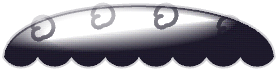
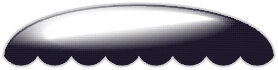
앱 꾸미기: 모자를 써도 헤어 그대로 · 뽀글 펌 무늬 빼기
- 머리를 덮는 모자를 써도 뒷머리를 자르지 않고 그 위에 모자를 얹어요 (머리 사이로 배경이 보이던 것 고침)
- 앞머리는 모자 아랫선 아래만 보이고, 가는 띠만 남으면 숨겨요 (눈 위에 걸치던 띠 고침)
- 왕관도 앞머리가 띠 아래만 보이게 (앞머리가 왕관을 덮던 것 고침)
- 모자용 뒷머리(cap) · 옆머리(side) 그림을 빼고 뽀글 펌의 곱슬 무늬를 지움

Changed region(s): [[0.0576, 0.0286, 0.9496, 0.6], [0.9496, 0.5143, 0.9784, 0.6571], [0.0288, 0.4857, 0.0576, 0.6286]]

diff --git a/mobile/src/components/character/av-assets.ts b/mobile/src/components/character/av-assets.ts
@@ -3,11 +3,11 @@
  * 원본은 scripts/av-art/art.js (캐릭터 원본 좌표 520 × 332 위에 그린 SVG) → export.html 로 뜬 PNG 예요.
  * 자리 r = [x, y, 폭, 높이]: box = 캐릭터 상자 비율 · stage = 무대(300 × 220) 비율.
  * 헤어는 머리 색을 바꾸도록 두 장: 바탕(빛 · 그림자 · 선) 위에 색칠 자리(tintColor 로 머리 색). front = 눈 위 앞머리.
- * 머리를 덮는 모자(cover)를 같이 쓰면 back · front 대신 cap(모자 속을 뺀 뒷머리) · side(모자 아랫선 아래로 내려오는 옆머리).
+ * 머리를 덮는 모자(cover)를 같이 써도 헤어는 그대로예요: 뒷머리 위에 모자가 얹히고, 앞머리는 모자 아랫선(clipY) 아래만 보여요.
  */
 
 export type AvRect = readonly [number, number, number, number];
-export type AvGeo = { k: 'box' | 'stage'; r: AvRect } | { k: 'hair'; back: AvRect; front?: AvRect; cap?: AvRect; side: AvRect } | { k: 'none' };
+export type AvGeo = { k: 'box' | 'stage'; r: AvRect } | { k: 'hair'; back: AvRect; front?: AvRect } | { k: 'none' };
 
 export const AV_ART: Record<string, number> = {
   'hr-sprout': require('@/assets/characters/av/hr-sprout.png'),
@@ -115,32 +115,28 @@ export const AV_HAIR_FILL: Record<string, number> = {
   'hr-long': require('@/assets/characters/av/hr-long-fill.png'),
 };
 
-/** 헤어 부분 그림: front 앞머리 · cap 모자 속을 뺀 뒷머리 · side 모자 아래 옆머리 (각각 바탕 + 색칠 자리) */
-type Two = { base: number; fill: number };
-export const AV_HAIR_PART: Record<string, { front?: Two; cap?: Two; side: Two }> = {
-  'hr-sprout': { side: { base: require('@/assets/characters/av/hr-sprout-side.png'), fill: require('@/assets/characters/av/hr-sprout-side-fill.png') } },
-  'hr-spiky': { cap: { base: require('@/assets/characters/av/hr-spiky-cap.png'), fill: require('@/assets/characters/av/hr-spiky-cap-fill.png') }, side: { base: require('@/assets/characters/av/hr-spiky-side.png'), fill: require('@/assets/characters/av/hr-spiky-side-fill.png') } },
-  'hr-bowl': { front: { base: require('@/assets/characters/av/hr-bowl-front.png'), fill: require('@/assets/characters/av/hr-bowl-front-fill.png') }, cap: { base: require('@/assets/characters/av/hr-bowl-cap.png'), fill: require('@/assets/characters/av/hr-bowl-cap-fill.png') }, side: { base: require('@/assets/characters/av/hr-bowl-side.png'), fill: require('@/assets/characters/av/hr-bowl-side-fill.png') } },
-  'hr-bun': { front: { base: require('@/assets/characters/av/hr-bun-front.png'), fill: require('@/assets/characters/av/hr-bun-front-fill.png') }, cap: { base: require('@/assets/characters/av/hr-bun-cap.png'), fill: require('@/assets/characters/av/hr-bun-cap-fill.png') }, side: { base: require('@/assets/characters/av/hr-bun-side.png'), fill: require('@/assets/characters/av/hr-bun-side-fill.png') } },
-  'hr-quiff': { cap: { base: require('@/assets/characters/av/hr-quiff-cap.png'), fill: require('@/assets/characters/av/hr-quiff-cap-fill.png') }, side: { base: require('@/assets/characters/av/hr-quiff-side.png'), fill: require('@/assets/characters/av/hr-quiff-side-fill.png') } },
-  'hr-bob': { front: { base: require('@/assets/characters/av/hr-bob-front.png'), fill: require('@/assets/characters/av/hr-bob-front-fill.png') }, cap: { base: require('@/assets/characters/av/hr-bob-cap.png'), fill: require('@/assets/characters/av/hr-bob-cap-fill.png') }, side: { base: require('@/assets/characters/av/hr-bob-side.png'), fill: require('@/assets/characters/av/hr-bob-side-fill.png') } },
-  'hr-pig': { front: { base: require('@/assets/characters/av/hr-pig-front.png'), fill: require('@/assets/characters/av/hr-pig-front-fill.png') }, cap: { base: require('@/assets/characters/av/hr-pig-cap.png'), fill: require('@/assets/characters/av/hr-pig-cap-fill.png') }, side: { base: require('@/assets/characters/av/hr-pig-side.png'), fill: require('@/assets/characters/av/hr-pig-side-fill.png') } },
-  'hr-pony': { front: { base: require('@/assets/characters/av/hr-pony-front.png'), fill: require('@/assets/characters/av/hr-pony-front-fill.png') }, cap: { base: require('@/assets/characters/av/hr-pony-cap.png'), fill: require('@/assets/characters/av/hr-pony-cap-fill.png') }, side: { base: require('@/assets/characters/av/hr-pony-side.png'), fill: require('@/assets/characters/av/hr-pony-side-fill.png') } },
-  'hr-curly': { front: { base: require('@/assets/characters/av/hr-curly-front.png'), fill: require('@/assets/characters/av/hr-curly-front-fill.png') }, cap: { base: require('@/assets/characters/av/hr-curly-cap.png'), fill: require('@/assets/characters/av/hr-curly-cap-fill.png') }, side: { base: require('@/assets/characters/av/hr-curly-side.png'), fill: require('@/assets/characters/av/hr-curly-side-fill.png') } },
-  'hr-long': { front: { base: require('@/assets/characters/av/hr-long-front.png'), fill: require('@/assets/characters/av/hr-long-front-fill.png') }, cap: { base: require('@/assets/characters/av/hr-long-cap.png'), fill: require('@/assets/characters/av/hr-long-cap-fill.png') }, side: { base: require('@/assets/characters/av/hr-long-side.png'), fill: require('@/assets/characters/av/hr-long-side-fill.png') } },
+/** 앞머리 그림 (바탕 + 색칠 자리) */
+export const AV_HAIR_FRONT: Record<string, { base: number; fill: number }> = {
+  'hr-bowl': { base: require('@/assets/characters/av/hr-bowl-front.png'), fill: require('@/assets/characters/av/hr-bowl-front-fill.png') },
+  'hr-bun': { base: require('@/assets/characters/av/hr-bun-front.png'), fill: require('@/assets/characters/av/hr-bun-front-fill.png') },
+  'hr-bob': { base: require('@/assets/characters/av/hr-bob-front.png'), fill: require('@/assets/characters/av/hr-bob-front-fill.png') },
+  'hr-pig': { base: require('@/assets/characters/av/hr-pig-front.png'), fill: require('@/assets/characters/av/hr-pig-front-fill.png') },
+  'hr-pony': { base: require('@/assets/characters/av/hr-pony-front.png'), fill: require('@/assets/characters/av/hr-pony-front-fill.png') },
+  'hr-curly': { base: require('@/assets/characters/av/hr-curly-front.png'), fill: require('@/assets/characters/av/hr-curly-front-fill.png') },
+  'hr-long': { base: require('@/assets/characters/av/hr-long-front.png'), fill: require('@/assets/characters/av/hr-long-front-fill.png') },
 };
 
 export const AV_GEO: Record<string, AvGeo> = {
-  'hr-sprout': { k: 'hair', back: [0.541, -0.2229, 0.1346, 0.3273], side: [0.3705, 0.0321, 0.4128, 0.1928] },
-  'hr-spiky': { k: 'hair', back: [0.3833, -0.2068, 0.3872, 0.3474], cap: [0.3885, 0.1285, 0.3769, 0.012], side: [0.3679, 0.0321, 0.4179, 0.2169] },
-  'hr-bowl': { k: 'hair', back: [0.3795, -0.0884, 0.3949, 0.2651], front: [0.391, -0.0542, 0.3718, 0.1747], cap: [0.3795, 0.1285, 0.3949, 0.0482], side: [0.3705, 0.0321, 0.4128, 0.1928] },
-  'hr-bun': { k: 'hair', back: [0.3872, -0.2851, 0.3795, 0.4438], front: [0.3949, -0.0341, 0.3641, 0.1446], cap: [0.3872, 0.1285, 0.3795, 0.0301], side: [0.3705, 0.0321, 0.4128, 0.1928] },
-  'hr-quiff': { k: 'hair', back: [0.3808, -0.2129, 0.4205, 0.3775], cap: [0.3821, -0.1566, 0.4192, 0.3213], side: [0.3705, 0.0321, 0.4128, 0.1928] },
-  'hr-bob': { k: 'hair', back: [0.3564, -0.1707, 0.441, 0.3956], front: [0.3846, -0.0683, 0.3846, 0.2711], cap: [0.3564, -0.004, 0.441, 0.2289], side: [0.3564, 0.0201, 0.441, 0.3012] },
-  'hr-pig': { k: 'hair', back: [0.2013, -0.0683, 0.7513, 0.3112], front: [0.3987, -0.0763, 0.3564, 0.1747], cap: [0.2013, -0.0683, 0.7513, 0.3112], side: [0.3705, 0.0321, 0.4128, 0.1928] },
-  'hr-pony': { k: 'hair', back: [0.1756, -0.1084, 0.5949, 0.3454], front: [0.3949, -0.0341, 0.3641, 0.1446], cap: [0.1756, -0.1084, 0.5949, 0.3454], side: [0.3705, 0.0321, 0.4128, 0.1928] },
-  'hr-curly': { k: 'hair', back: [0.3269, -0.3815, 0.5, 0.6426], front: [0.3987, -0.0241, 0.3564, 0.1426], cap: [0.3269, -0.3815, 0.5, 0.6426], side: [0.3564, 0.0482, 0.441, 0.2369] },
-  'hr-long': { k: 'hair', back: [0.3, -0.0723, 0.5538, 0.8614], front: [0.3718, -0.0964, 0.4103, 0.3213], cap: [0.3, 0.1285, 0.5538, 0.6606], side: [0.3526, 0.0201, 0.4487, 0.4398] },
+  'hr-sprout': { k: 'hair', back: [0.541, -0.2229, 0.1346, 0.3273] },
+  'hr-spiky': { k: 'hair', back: [0.3833, -0.2068, 0.3872, 0.3474] },
+  'hr-bowl': { k: 'hair', back: [0.3795, -0.0884, 0.3949, 0.2651], front: [0.391, -0.0542, 0.3718, 0.1747] },
+  'hr-bun': { k: 'hair', back: [0.3872, -0.2851, 0.3795, 0.4438], front: [0.3949, -0.0341, 0.3641, 0.1446] },
+  'hr-quiff': { k: 'hair', back: [0.3808, -0.2129, 0.4205, 0.3775] },
+  'hr-bob': { k: 'hair', back: [0.3564, -0.1707, 0.441, 0.3956], front: [0.3846, -0.0683, 0.3846, 0.2711] },
+  'hr-pig': { k: 'hair', back: [0.2013, -0.0683, 0.7513, 0.3112], front: [0.3987, -0.0763, 0.3564, 0.1747] },
+  'hr-pony': { k: 'hair', back: [0.1756, -0.1084, 0.5949, 0.3454], front: [0.3949, -0.0341, 0.3641, 0.1446] },
+  'hr-curly': { k: 'hair', back: [0.3269, -0.3815, 0.5, 0.6426], front: [0.3987, -0.0221, 0.3564, 0.1406] },
+  'hr-long': { k: 'hair', back: [0.3, -0.0723, 0.5538, 0.8614], front: [0.3718, -0.0964, 0.4103, 0.3213] },
   'e-sparkle': { k: 'box', r: [0.4744, 0.0783, 0.2282, 0.1847] },
   'e-lash': { k: 'box', r: [0.3897, -0.0462, 0.3705, 0.1867] },
   'e-liner': { k: 'box', r: [0.3577, 0.0361, 0.4346, 0.1325] },

diff --git a/mobile/scripts/av-art/art.js b/mobile/scripts/av-art/art.js
@@ -45,7 +45,6 @@
   /** 뭉게뭉게 테두리 (타원 둘레에 작은 원호 n 개 · 뽀글 머리 · 구름) */
   const scallop = (cx, cy, rx, ry, n, b) => { const p = (i) => { const a = (i / n) * Math.PI * 2; return `${r1(cx + Math.cos(a) * rx)} ${r1(cy + Math.sin(a) * ry)}`; }; return `M${p(0)}` + [...Array(n)].map((_, i) => `A${b} ${b} 0 0 1 ${p(i + 1)}`).join('') + 'Z'; };
   /** 작은 소용돌이 컬 */
-  const curl = (x, y, r) => `M${x - r} ${y}a${r} ${r} 0 1 1 ${r} ${r}a${r * 0.55} ${r * 0.55} 0 1 1 ${-r * 0.4} ${-r * 0.9}`;
   const rng = (n, f) => [...Array(n)].map((_, i) => f(i)).join('');
 
   // ---------------------------------------------------------------- 팔 · 다리 띠 (옷 · 장갑 · 신발 자리)
@@ -129,7 +128,7 @@
       P(ell(442, 28, 24, 24), '#FFFFFF') +
       P(rr(198, -2, 204, 44, 22), '#FFFFFF') + rng(10, (i) => `<circle cx="${212 + i * 20}" cy="${i % 2 ? 8 : 30}" r="5" fill="${INK}" opacity=".06"/>`) +
       gl(264, -52, 20, 8, -40, 0.45) },
-    { id: 'h-crown', name: '황금 왕관', price: 0, rare: '시즌', lock: '주간 랭킹 TOP 3 보상', art: () =>
+    { id: 'h-crown', cover: true, clipY: 32, name: '황금 왕관', price: 0, rare: '시즌', lock: '주간 랭킹 TOP 3 보상', art: () =>
       P('M222 30 L212 -44 L254 -10 L276 -66 L300 -22 L324 -66 L346 -10 L388 -44 L378 30 Z', 'url(#avGold)', { rim: 0.3 }) +
       P(rr(218, 6, 164, 26, 9), 'url(#avGold)', { rim: 0.3 }) +
       [[212, -48], [276, -70], [324, -70], [388, -48]].map(([x, y]) => P(ell(x, y, 8, 8), 'url(#avGold)', { rim: 0.3 })).join('') +
@@ -168,32 +167,12 @@
       Hp('M202 50 C196 -40 404 -40 398 50 Z', H) + P(ell(228, 4, 14, 18), '#FFE200', { t: 'rotate(-20 228 4)' }) + st('M116 -2 Q140 -26 178 -24', 0.4, 5),
       front: (H) => Hp('M208 34 C206 -8 300 -28 392 18 C356 6 318 10 292 28 C272 14 238 18 208 34 Z', H, { hi: 0.7 }) },
     { id: 'hr-curly', name: '뽀글 펌', price: 200, rare: '레어', back: (H) =>
-      Hp(scallop(300, -20, 124, 92, 18, 24), H) +
-      [[240, -60], [290, -82], [344, -70], [384, -30], [214, -10], [262, -24], [318, -40], [366, 6], [228, 30], [392, 34]].map(([x, y], i) => ln(curl(x, y, 8 + (i % 3) * 2), INK, 3, { op: 0.18 }) + ln(`M${x - 6} ${y - 6} q5 -5 11 -3`, '#fff', 3.5, { op: 0.45 })).join(''),
-      front: (H) => Hp('M210 30 C212 -16 388 -16 390 30' + [...Array(8)].map((_, i) => `A13 13 0 0 1 ${390 - (i + 1) * 22.5} 30`).join('') + 'Z', H, { hi: 0.7 }) + [[236, 10], [276, 2], [318, 2], [360, 10]].map(([x, y]) => ln(curl(x, y, 7), INK, 2.6, { op: 0.16 })).join('') },
+      Hp(scallop(300, -20, 124, 92, 18, 24), H),
+      front: (H) => Hp('M210 30 C212 -16 388 -16 390 30' + [...Array(8)].map((_, i) => `A13 13 0 0 1 ${390 - (i + 1) * 22.5} 30`).join('') + 'Z', H, { hi: 0.7 }) },
     { id: 'hr-long', name: '긴 생머리', price: 250, rare: '레어', back: (H) =>
       Hp('M194 60 C176 -48 424 -48 406 60 C424 122 446 186 440 250 C420 264 394 262 378 246 L300 110 L222 246 C206 262 180 264 160 250 C154 186 176 122 194 60 Z', H) + st('M424 150 Q436 200 430 238', 0.35, 5) + st('M176 150 Q166 200 170 238', 0.35, 5),
       front: (H) => Hp('M300 -24 C262 -24 222 -6 212 38 C210 52 208 62 202 72 C190 40 194 0 228 -20 C250 -30 280 -32 300 -24 Z', H, { hi: 0.6 }) + Hp('M300 -24 C338 -24 378 -6 388 38 C390 52 392 62 398 72 C410 40 406 0 372 -20 C350 -30 320 -32 300 -24 Z', H, { hi: 0.6 }) },
   ];
-
-  // 모자(머리를 덮는 것)를 같이 쓰면: 뒷머리에서 모자 속 부분을 잘라 내고(cap), 모자 아래로 옆머리를 내려요(side · 모자 아랫선 아래만 보여요)
-  const DOME = 'M-200 -400 H800 V600 H-200 Z M192 44 C184 -150 416 -150 408 44 Z';
-  const LOCK = {
-    short: 'M206 14 C196 30 192 52 198 72 C208 66 216 50 220 16 Z',
-    spiky: 'M206 14 L194 60 L208 50 L202 80 L220 40 L222 14 Z',
-    bob: 'M204 10 C186 40 184 84 196 104 C212 102 224 72 224 14 Z',
-    long: 'M204 10 C184 56 182 112 192 150 C208 138 222 92 224 14 Z',
-    curly: '',
-  };
-  const SIDE = { 'hr-sprout': 'short', 'hr-spiky': 'spiky', 'hr-bowl': 'short', 'hr-bun': 'short', 'hr-quiff': 'short', 'hr-bob': 'bob', 'hr-pig': 'short', 'hr-pony': 'short', 'hr-curly': 'curly', 'hr-long': 'long' };
-  HAIRS.forEach((h) => {
-    h.cap = (H) => `<clipPath id="dc${h.id}"><path d="${DOME}" clip-rule="evenodd"/></clipPath><g clip-path="url(#dc${h.id})">${h.back(H)}</g>`;
-    const k = SIDE[h.id];
-    h.side = (H) => {
-      const one = k === 'curly' ? [[208, 34, 15], [202, 58, 14], [206, 80, 12]].map(([x, y, r]) => Hp(ell(x, y, r, r), H, { rim: 0.16 })).join('') : Hp(LOCK[k], H, { hi: 0.7 }) + st(LOCK[k].split(' ').slice(0, 2).join(' ').replace('M', 'M') + ' l-4 30', 0.3, 4);
-      return one + mir(one);
-    };
-  });
 
   // ---------------------------------------------------------------- 눈 (원본 눈 위에 덧그려요 · lid = 몸 색 눈꺼풀: t 위에서, b 아래에서, only 한쪽 눈)
   const EY = [[258.5, 64, 273, 68, -1], [339.5, 65.5, 354, 69, 1]];

diff --git a/mobile/src/components/character/avatar.tsx b/mobile/src/components/character/avatar.tsx
@@ -11,7 +11,7 @@ import { AV_BG, AV_COLOR_HEX, AV_ITEM, memberAvatar, type Avatar, type AvItem } 
 import { getMe } from '@/state/me';
 import { useMyAvatar } from '@/state/avatar';
 
-import { AV_ART, AV_BG_ART, AV_BODY, AV_GEO, AV_HAIR_FILL, AV_HAIR_PART, AV_TINT, type AvRect } from './av-assets';
+import { AV_ART, AV_BG_ART, AV_BODY, AV_GEO, AV_HAIR_FILL, AV_HAIR_FRONT, AV_TINT, type AvRect } from './av-assets';
 
 /*
  * 꾸민 캐릭터 그리기 (프로토타입 avCharHTML · avStage · lgFace).
@@ -142,31 +142,32 @@ function Tinted({ base, fill, r, hc, w, h }: { base: number; fill: number; r: Av
   );
 }
 
-/** 아이템 한 개 (캐릭터 상자 w × h 기준 자리) — 헤어는 뒷머리 (모자를 덮어쓰면 모자 속을 뺀 뒷머리) */
-function Sticker({ it, hc, w, h, capped = false }: { it: AvItem; hc: string; w: number; h: number; capped?: boolean }) {
+/** 아이템 한 개 (캐릭터 상자 w × h 기준 자리) — 헤어는 뒷머리 (모자를 써도 그대로, 모자가 위에 얹혀요) */
+function Sticker({ it, hc, w, h }: { it: AvItem; hc: string; w: number; h: number }) {
   const g = AV_GEO[it.id];
   if (!g) return null;
-  if (g.k === 'hair') {
-    const p = AV_HAIR_PART[it.id];
-    if (capped) return p?.cap && g.cap ? <Tinted base={p.cap.base} fill={p.cap.fill} r={g.cap} hc={hc} w={w} h={h} /> : null;
-    return <Tinted base={AV_ART[it.id]} fill={AV_HAIR_FILL[it.id]} r={g.back} hc={hc} w={w} h={h} />;
-  }
+  if (g.k === 'hair') return <Tinted base={AV_ART[it.id]} fill={AV_HAIR_FILL[it.id]} r={g.back} hc={hc} w={w} h={h} />;
   if (g.k !== 'box') return null;
   return <Image source={AV_ART[it.id]} style={rectStyle(g.r, w, h)} contentFit="fill" />;
 }
 
-/** 눈 위 헤어: 모자가 없으면 앞머리 · 머리를 덮는 모자를 쓰면 모자 아랫선(clipY) 아래로 옆머리 */
+/** 모자 아랫선 아래로 앞머리가 이만큼(원본 좌표)도 안 남으면 앞머리를 숨겨요 — 눈 위에 가는 띠로 걸쳐 보여서 */
+const MIN_BANGS_BELOW_HAT = 12;
+
+/** 눈 위 앞머리: 머리를 덮는 모자를 쓰면 모자 아랫선(clipY) 아래로 보이는 부분만 (단발 · 긴 머리처럼 길게 내려오는 앞머리만 남아요) */
 function HairFront({ it, cover, hc, w, h }: { it: AvItem; cover?: AvItem; hc: string; w: number; h: number }) {
   const g = AV_GEO[it.id];
-  const p = AV_HAIR_PART[it.id];
-  if (!g || g.k !== 'hair' || !p) return null;
-  if (!cover) return p.front && g.front ? <Tinted base={p.front.base} fill={p.front.fill} r={g.front} hc={hc} w={w} h={h} /> : null;
-  const top = ((cover.clipY ?? 40) / 332) * h;
+  const p = AV_HAIR_FRONT[it.id];
+  if (!g || g.k !== 'hair' || !p || !g.front) return null;
+  const bangs = <Tinted base={p.base} fill={p.fill} r={g.front} hc={hc} w={w} h={h} />;
+  if (!cover) return bangs;
+  const clipY = cover.clipY ?? 40;
+  const bangsBottom = (g.front[1] + g.front[3]) * 332;
+  if (bangsBottom - clipY < MIN_BANGS_BELOW_HAT) return null;
+  const top = (clipY / 332) * h;
   return (
     <View pointerEvents="none" style={{ position: 'absolute', left: -w, top, width: w * 3, height: h * 2, overflow: 'hidden' }}>
-      <View style={{ position: 'absolute', left: w, top: -top, width: w, height: h }}>
-        <Tinted base={p.side.base} fill={p.side.fill} r={g.side} hc={hc} w={w} h={h} />
-      </View>
+      <View style={{ position: 'absolute', left: w, top: -top, width: w, height: h }}>{bangs}</View>
     </View>
   );
 }
@@ -192,7 +193,7 @@ export const AvatarChar = memo(function AvatarChar({ av, width: w, flip = av.fli
   const cover = its.find((i) => i.hat && i.cover);
   return (
     <View pointerEvents="none" style={[{ width: w, height: h }, flip && styles.flip, style]}>
-      {its.filter((i) => i.layer === 'back').map((i) => <Sticker key={i.id} it={i} hc={hc} w={w} h={h} capped={!!cover} />)}
+      {its.filter((i) => i.layer === 'back').map((i) => <Sticker key={i.id} it={i} hc={hc} w={w} h={h} />)}
       <Body color={av.color} w={w} h={h} />
       {its.filter((i) => i.layer === 'paint').map((i) => <Sticker key={i.id} it={i} hc={hc} w={w} h={h} />)}
       {its.filter((i) => i.layer === 'eye').map((i) => <EyeLayer key={i.id} it={i} color={av.color} w={w} h={h} />)}

diff --git a/mobile/scripts/av-art/make-assets.js b/mobile/scripts/av-art/make-assets.js
@@ -14,11 +14,11 @@ let a = `/**
  * 원본은 scripts/av-art/art.js (캐릭터 원본 좌표 520 × 332 위에 그린 SVG) → export.html 로 뜬 PNG 예요.
  * 자리 r = [x, y, 폭, 높이]: box = 캐릭터 상자 비율 · stage = 무대(300 × 220) 비율.
  * 헤어는 머리 색을 바꾸도록 두 장: 바탕(빛 · 그림자 · 선) 위에 색칠 자리(tintColor 로 머리 색). front = 눈 위 앞머리.
- * 머리를 덮는 모자(cover)를 같이 쓰면 back · front 대신 cap(모자 속을 뺀 뒷머리) · side(모자 아랫선 아래로 내려오는 옆머리).
+ * 머리를 덮는 모자(cover)를 같이 써도 헤어는 그대로예요: 뒷머리 위에 모자가 얹히고, 앞머리는 모자 아랫선(clipY) 아래만 보여요.
  */
 
 export type AvRect = readonly [number, number, number, number];
-export type AvGeo = { k: 'box' | 'stage'; r: AvRect } | { k: 'hair'; back: AvRect; front?: AvRect; cap?: AvRect; side: AvRect } | { k: 'none' };
+export type AvGeo = { k: 'box' | 'stage'; r: AvRect } | { k: 'hair'; back: AvRect; front?: AvRect } | { k: 'none' };
 
 export const AV_ART: Record<string, number> = {
 `;
@@ -30,8 +30,8 @@ for (const [id, g] of Object.entries(geo.items)) {
   if (g.hair) { fill.push(id); parts.push([id, g]); if (g.front) { front.push(id); frontFill.push(id); } }
 }
 a += `};\n\nexport const AV_HAIR_FILL: Record<string, number> = {\n${fill.map((id) => `  ${q(id)}: ${req(id + '-fill')},`).join('\n')}\n};\n`;
-a += `\n/** 헤어 부분 그림: front 앞머리 · cap 모자 속을 뺀 뒷머리 · side 모자 아래 옆머리 (각각 바탕 + 색칠 자리) */\ntype Two = { base: number; fill: number };\nexport const AV_HAIR_PART: Record<string, { front?: Two; cap?: Two; side: Two }> = {\n${parts.map(([id, g]) => `  ${q(id)}: { ${g.front ? `front: { base: ${req(id + '-front')}, fill: ${req(id + '-front-fill')} }, ` : ''}${g.cap ? `cap: { base: ${req(id + '-cap')}, fill: ${req(id + '-cap-fill')} }, ` : ''}side: { base: ${req(id + '-side')}, fill: ${req(id + '-side-fill')} } },`).join('\n')}\n};\n`;
-a += `\nexport const AV_GEO: Record<string, AvGeo> = {\n${Object.entries(geo.items).map(([id, g]) => `  ${q(id)}: ${g.hair ? `{ k: 'hair', back: ${arr(g.back)}${g.front ? `, front: ${arr(g.front)}` : ''}${g.cap ? `, cap: ${arr(g.cap)}` : ''}, side: ${arr(g.side)} }` : g.k === 'none' ? `{ k: 'none' }` : `{ k: '${g.k}', r: ${arr(g.r)} }`},`).join('\n')}\n};\n`;
+a += `\n/** 앞머리 그림 (바탕 + 색칠 자리) */\nexport const AV_HAIR_FRONT: Record<string, { base: number; fill: number }> = {\n${parts.filter(([, g]) => g.front).map(([id]) => `  ${q(id)}: { base: ${req(id + '-front')}, fill: ${req(id + '-front-fill')} },`).join('\n')}\n};\n`;
+a += `\nexport const AV_GEO: Record<string, AvGeo> = {\n${Object.entries(geo.items).map(([id, g]) => `  ${q(id)}: ${g.hair ? `{ k: 'hair', back: ${arr(g.back)}${g.front ? `, front: ${arr(g.front)}` : ''} }` : g.k === 'none' ? `{ k: 'none' }` : `{ k: '${g.k}', r: ${arr(g.r)} }`},`).join('\n')}\n};\n`;
 a += `\nexport const AV_BG_ART: Record<string, number> = {\n${geo.bgMeta.map((b) => `  ${q(b.id)}: ${req('bg-' + b.id)},`).join('\n')}\n};\n`;
 a += `
 /** 원본 3D 몸 PNG (색마다 따로 그린 원본) */

diff --git a/mobile/src/data/av-items.ts b/mobile/src/data/av-items.ts
@@ -34,7 +34,7 @@ export const AV_ITEMS: AvItem[] = [
   { id: 'h-grad', cat: 'hat', name: '학사모', price: 400, rare: '레어', layer: 'back', hat: true, cover: true, clipY: 30 },
   { id: 'h-witch', cat: 'hat', name: '마녀 모자', price: 500, rare: '에픽', layer: 'back', hat: true, cover: true, clipY: 48 },
   { id: 'h-santa', cat: 'hat', name: '산타 모자', price: 0, rare: '시즌', lock: '12월 출석 7일 보상', layer: 'back', hat: true, cover: true, clipY: 42 },
-  { id: 'h-crown', cat: 'hat', name: '황금 왕관', price: 0, rare: '시즌', lock: '주간 랭킹 TOP 3 보상', layer: 'back', hat: true },
+  { id: 'h-crown', cat: 'hat', name: '황금 왕관', price: 0, rare: '시즌', lock: '주간 랭킹 TOP 3 보상', layer: 'back', hat: true, cover: true, clipY: 32 },
   { id: 'f-cheek', cat: 'face', name: '발그레 볼', price: 0, rare: '기본', layer: 'front' },
   { id: 'f-cheek3', cat: 'face', name: '하트 볼', price: 150, rare: '일반', layer: 'front' },
   { id: 'f-freck', cat: 'face', name: '주근깨', price: 80, rare: '일반', layer: 'front' },

diff --git a/mobile/scripts/av-art/lab.html b/mobile/scripts/av-art/lab.html
@@ -40,8 +40,10 @@ function charHTML(eq, hc = '#3B2A20', flip = false) {
   let h = '';
   for (const it of its) {
     if (it.hair) {
-      if (cover) { h += layerSvg(it.cap(hc), 'back'); h += layerSvg(`<clipPath id="lc"><rect x="-200" y="${cover.clipY}" width="900" height="600"/></clipPath><g clip-path="url(#lc)">${it.side(hc)}</g>`, 'front'); }
-      else { h += layerSvg(it.back(hc), 'back'); if (it.front) h += layerSvg(it.front(hc), 'front'); }
+      // 모자를 써도 헤어는 그대로: 뒷머리 위에 모자가 얹히고, 앞머리는 모자 아랫선(clipY) 아래만 보여요
+      h += layerSvg(it.back(hc), 'back');
+      // 모자 아래로 앞머리가 가는 띠만 남으면(앱 MIN_BANGS_BELOW_HAT) 숨겨요 — 미리 보기에서는 모든 앞머리를 그려요
+      if (it.front) h += layerSvg(cover ? `<clipPath id="lc"><rect x="-200" y="${cover.clipY}" width="900" height="600"/></clipPath><g clip-path="url(#lc)">${it.front(hc)}</g>` : it.front(hc), 'front');
       continue;
     }
     if (it.layer === 'fx') continue;

diff --git a/mobile/scripts/av-art/export.html b/mobile/scripts/av-art/export.html
@@ -55,7 +55,7 @@ function split(d0, d1) {
     st('그리는 중 ' + it.id);
     if (it.hair) {
       const g = { k: 'box', hair: true };
-      for (const part of ['back', 'front', 'cap', 'side']) {
+      for (const part of ['back', 'front']) {
         if (!it[part]) continue;
         const d0 = await raster(A.svg(it[part]('#000000')), W, H), d1 = await raster(A.svg(it[part]('#FFFFFF')), W, H);
         const b = bbox(d0); if (!b) continue; const [base, fill] = split(d0, d1);
